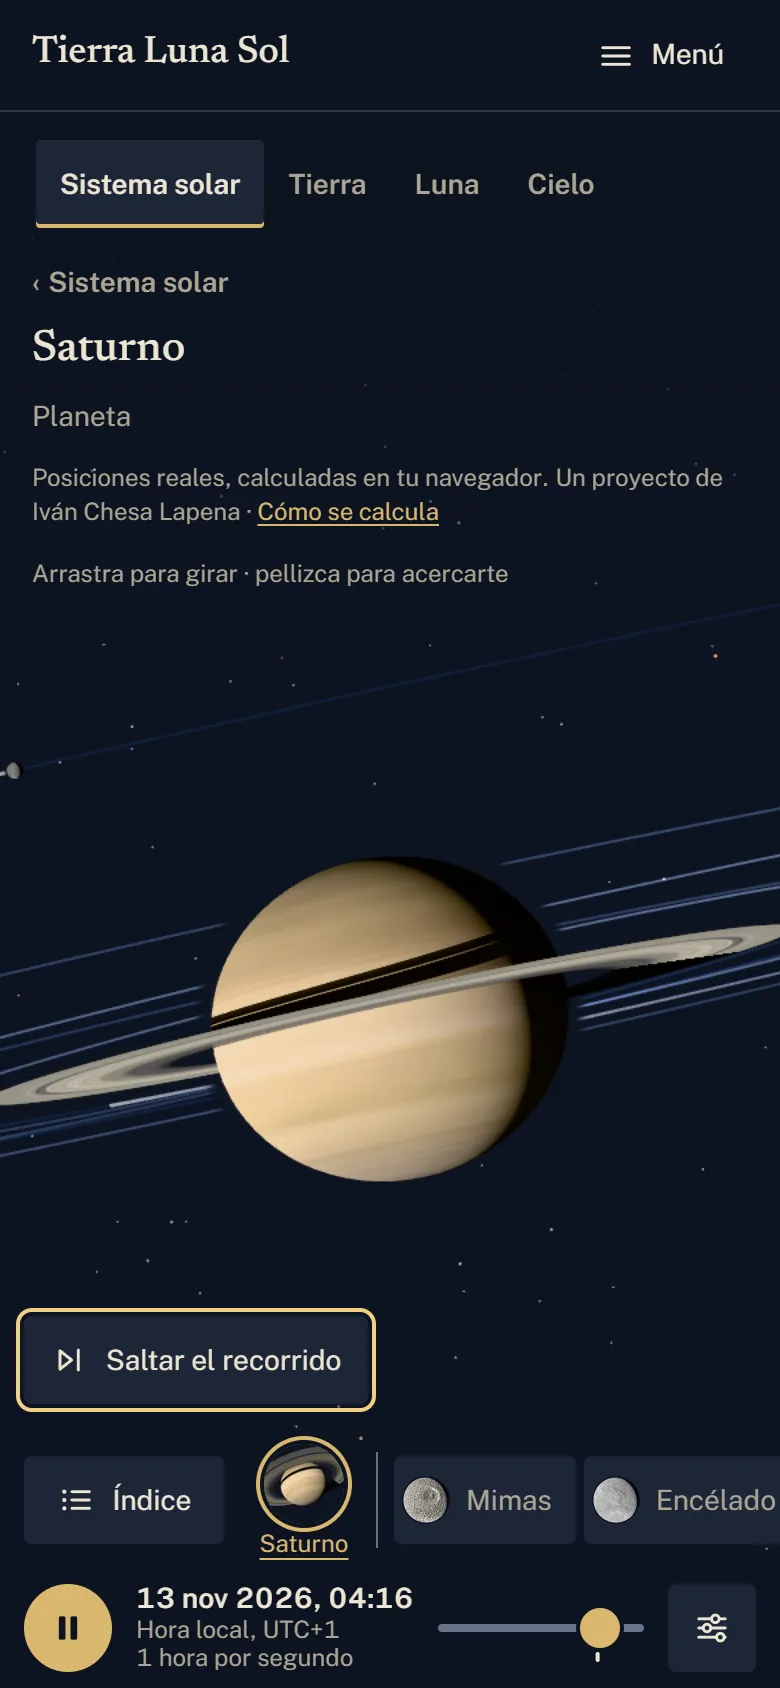
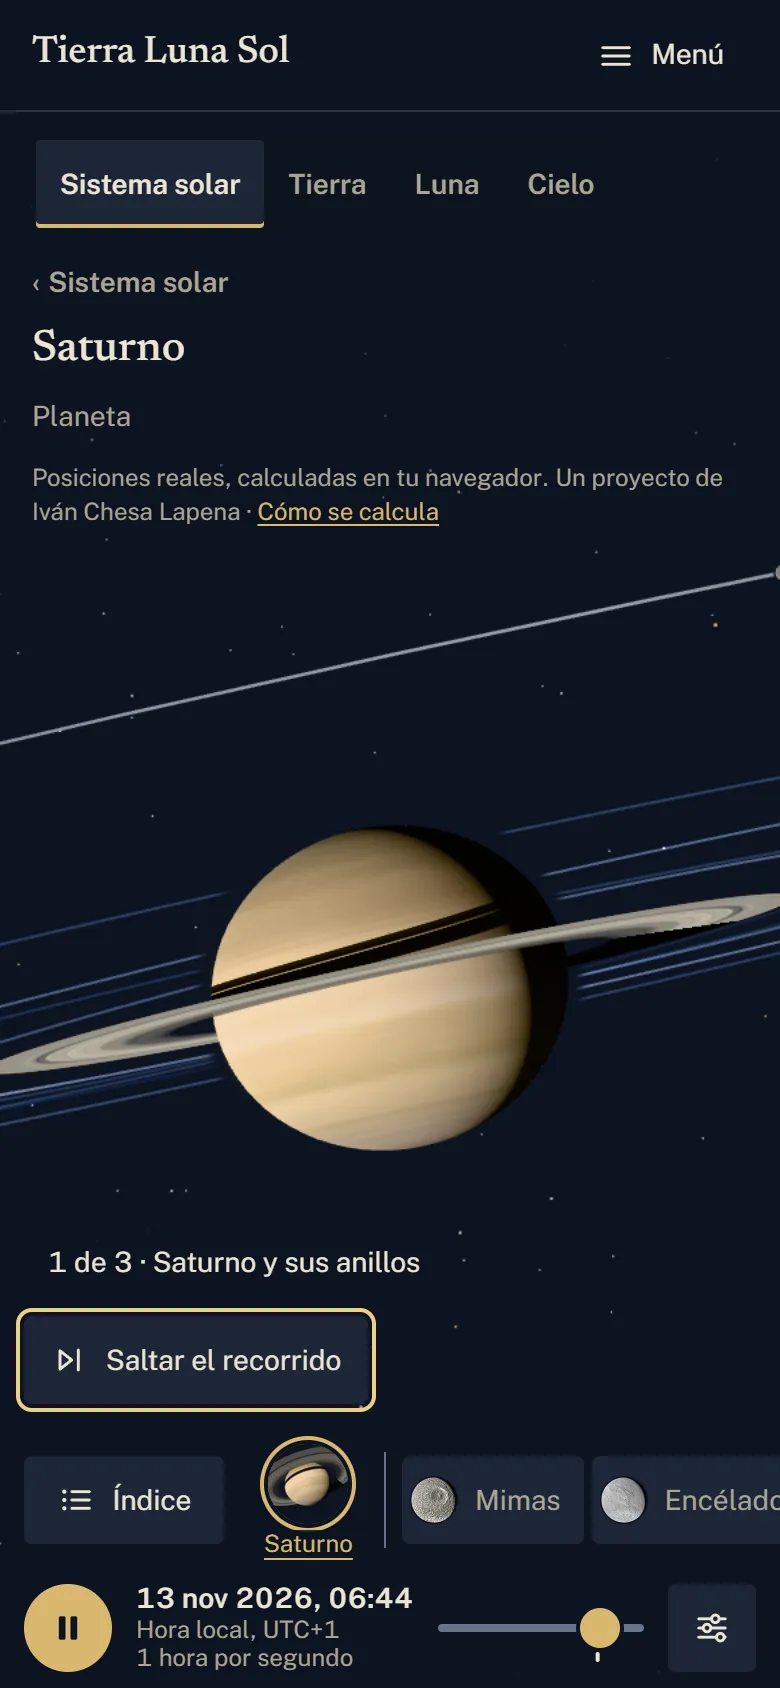
docs: la respuesta a la crítica de la 9c: el informe, DISENO al día y las capturas de después rehechas
- Informe: «Respuesta a la crítica» (los problemas 1 a 6 y los rápidos, con sus pruebas), §2, §6 y
  §6.2 con las medidas de este build (measure-ui, npm run check, 128 de 128 e2e), §7 (33 capturas de
  después), §10 (el año en el teléfono, propuesta para Iván; lo demás de la crítica, al backlog) y §12
  (para la 9b: las etiquetas de la escena, la precarga de texturas y los nombres de los lugares).
- DISENO: el recorrido y las pistas, los avisos sobre el 3D, lo plegado que se despliega con el foco,
  el año como mando, «Controles» en el encuadre y como hoja baja, la placa de los nombres y las migas.
- Capturas: las de después, rehechas sobre el build final; tres nuevas, con «Controles» abierto.

diff --git a/docs/DISENO.md b/docs/DISENO.md
@@ -116,13 +116,17 @@ La consola de un observatorio: grafito neutro, texto blanco roto y un único ace
 
 - **El 3D manda.** Lo que flota sobre el lienzo sin ser un control ni un panel opaco no captura el puntero: los gestos llegan al 3D por todo el lienzo (también sobre el título).
 - **Un control, un peso.** El borde (`--color-control`), solo en los campos y los desplegables; los botones, con su fondo (`--color-surface-raised`) y sin borde. Pulsado o abierto, el texto en latón con un subrayado de 2 px, como la pestaña de la vista actual. **Reproducir es lo único destacado** (el círculo de latón).
-- **Paneles sin contorno:** el fondo (`--color-surface`) y la sombra los separan del 3D. Las pestañas, sobre un fondo traslúcido; los planetas de las fichas, sin caja (la miniatura y el nombre, con una sombra del color del fondo).
+- **Paneles sin contorno:** el fondo (`--color-surface`) y la sombra los separan del 3D. Las pestañas, sobre un fondo traslúcido; los planetas de las fichas, sin caja: la miniatura, y el nombre sobre una placa casi opaca del color del fondo, que se lee también sobre un planeta brillante (≥ 4,5:1 en el peor caso, medido por `scripts/measure-ui.mjs`; crítica de la 9c).
 - **Un solo selector a la vista:** las fichas de cuerpos. El Índice es su versión en tabla y, abierto, las sustituye. El título dice el cuerpo elegido, con «‹ Sistema solar» para volver.
 - **Planetas y lunas, distintos a simple vista** (decisión de Iván del 07-11): los planetas, redondos y con el nombre debajo; las lunas, pastillas con su fondo, la miniatura y el nombre al lado (como un botón: pulsada, el nombre en latón con su subrayado).
   - **En el PC y la tableta (≥ 768 px), dos filas:** abajo, el Sol y los planetas; encima, las lunas del sistema elegido. En todas las vistas: en Tierra y Luna, los planetas y, encima, la Luna.
   - **En el móvil, una sola fila:** con un planeta con lunas elegido, el planeta, una raya y sus lunas (desplazable), y «‹ Sistema solar», en el título, vuelve a la de los planetas. En Tierra, Luna y el Cielo, sin fichas (en el Cielo, su selector es la tabla de «Esta noche», con «Mirar»).
 - **Lo que se usa poco, en «Controles»:** la fecha y la hora, el sentido, la cámara (en el móvil), la vista general, la vista limpia, la calidad, la escala, el recorrido y los atajos.
-- **La primera vez, y no más:** las pistas de uso y el recorrido de la portada (unos 30 s, con «Saltar el recorrido»).
+- **La primera vez, y no más:** el recorrido de la portada y, al acabarlo o saltarlo, las pistas de uso (crítica de la 9c).
+  - **El recorrido,** unos 29 s: Saturno, la Tierra y España (con sus lugares nombrados), la Luna (si no está casi nueva: con menos del 20 % iluminado, esa parada se salta, sin tocar la fecha) y la vista general en marcha. Cada parada, con su rótulo («1 de 4 · Saturno y sus anillos»). «Saltar el recorrido» lleva a la vista general en marcha, sin anillo de foco si se ha usado el ratón o un toque.
+  - **Las pistas,** 7 s junto a la fila: «Ahora tú: elige un cuerpo abajo · arrastra para girar · usa la rueda para acercarte» (o «pellizca», con el dedo). Solo se dan por vistas con una interacción de verdad (un clic, un toque, la rueda o una tecla que no sea moverse con el tabulador); si se acaban sin usarlas, vuelven otro día.
+- **Los avisos sobre el 3D** (el rótulo del recorrido, las pistas y «Saltar el recorrido»): en una placa junto a la fila, centrada en la zona libre del encuadre (`tls-callout`); no capturan el puntero.
+- **Lo plegado se despliega al recibir el foco** (la presentación y la autoría, con un cuerpo elegido en el móvil): el tabulador nunca se para en algo que no se ve.
 - **Medida de lectura:** `--measure` = 30em, unos 68 caracteres de texto corrido (antes 68ch, que con el «0» de Public Sans daban unos 89).
 - **Nada por debajo de 11 px** y zonas de 44 × 44 px en el explorador táctil (24 × 24 en todas las páginas).
 
@@ -130,7 +134,7 @@ La consola de un observatorio: grafito neutro, texto blanco roto y un único ace
 
 ### Navegación
 
-- **Páginas de lectura** (fichas, índices, eclipses…): la cabecera con el nombre (a la portada), Planetas, Lunas, Sol, Eclipses, Sobre el proyecto y «Explorar en 3D» (en latón). En el móvil, en «Menú», con los créditos y lo legal aparte y abajo.
+- **Páginas de lectura** (fichas, índices, eclipses…): la cabecera con el nombre (a la portada), Planetas, Lunas, Sol, Eclipses, Sobre el proyecto y «Explorar en 3D» (en latón). En el móvil, en «Menú», con los créditos y lo legal aparte y abajo. Debajo, las migas («Inicio › Planetas › Marte», «Inicio › Eclipses»).
 - **El explorador:** la cabecera compacta en todos los tamaños (el nombre y «Menú», con lo mismo dentro). Sus vistas, en las pestañas: Sistema solar, Tierra, Luna y Cielo.
 
 ### Visor · escritorio (≥ 1024 px)
@@ -150,12 +154,12 @@ Disposición inmersiva (D30, fase 3c; fase 9c): el lienzo a sangre bajo la cabec
 │                    canvas 3D a sangre                  └───────────────────┘   │
 │        (los gestos, en todo él; el encuadre se aparta de los paneles)    +     │ ← acercar y alejar, sin marco
 │                                                                          −     │
+│     Ahora tú: elige un cuerpo abajo · arrastra para girar · usa la rueda…      │ ← pistas, 7 s, la primera vez
 │                [◐ Mimas] [◐ Encélado] [◐ Tetis] [◐ Dione] … [◐ Jápeto]         │ ← encima, las lunas del sistema
 │ [≡ Índice]    (☉)  (·)  (·)  (·)  (·)  (♃)  (♄)  (·)  (·)                      │    elegido, en pastillas; abajo,
 │               Sol  Mer. Ven. Tie. Mar. Júp. Sat. Ura. Nep.                     │    los planetas, el nombre debajo
-│ (▶)  Fecha                   2026 ───────●──────────   Velocidad  [⚙ Controles]│ ← barra: reproducir, fecha,
-│      24 oct 2026, 02:00                    hoy         3 días/s ▾              │     año, velocidad y más
-│ Arrastra para girar · usa la rueda o pellizca para acercarte · elige un cuerpo │ ← pistas, solo la primera vez
+│ (▶)  Fecha               ‹ 2026 › ──────●──────────   Velocidad  [⚙ Controles] │ ← barra: reproducir, fecha,
+│      24 oct 2026, 02:00                    hoy         3 días/s ▾              │     el año (‹ ›), velocidad y más
 └────────────────────────────────────────────────────────────────────────────────┘
 ```
 Las cifras y las fechas del boceto son marcadores.
@@ -164,8 +168,9 @@ Las cifras y las fechas del boceto son marcadores.
 - **La franja de abajo** es solo el fondo de la barra de tiempo, con un fundido corto (0,5 rem) encima; los dos, como mucho el 10 % del lienzo; las fichas flotan sobre el 3D y cuentan en el encuadre.
 - **La barra no cambia de tamaño al reproducir:** las cifras usan `tabular-nums` y la fecha tiene el ancho de la más larga («30 sept 2026, 23:59»).
 - **Al entrar, el sistema se mueve** a la velocidad de su contexto (D33): reproducir y pausar es lo primero y más visible de la barra. La primera vez, el recorrido de la portada.
-- **En las vistas Tierra y Luna**, sin Índice: los planetas y, encima, la Luna; «‹ Sistema solar» en el título y su panel en la columna izquierda. **En el Cielo**, sin Índice: su tabla es la de «Esta noche»; su columna, de 22 rem, para que quepa el lugar más largo.
-- **«Controles»** se abre encima de la franja de abajo, a la derecha (con la ficha abierta, a su izquierda): por encima de la barra, las fichas y la fila de lunas, que no tapa.
+- **En las vistas Tierra y Luna**, sin Índice: los planetas y, encima, la Luna; «‹ Sistema solar» en el título y su panel en la columna izquierda, que aparta el encuadre a su derecha: la región de una vista guiada (España), en la zona libre. **En el Cielo**, sin Índice: su tabla es la de «Esta noche»; su columna, de 22 rem, para que quepa el lugar más largo.
+- **El año, un mando de la barra:** «‹ 2026 ›», en la línea del año, en el PC y la tableta (con el dedo, flechas de 44 px; en el teléfono, la línea apenas mide 100 px: el año va en la fecha y en «Controles»). Un toque, un año; mantenido medio segundo, por décadas; siempre dentro de 1900–2100. Con el teclado, Mayús + Re Pág y Av Pág en la línea del año, que lo dice en su descripción. Las flechas no son paradas del tabulador: la línea y el año son un solo mando (los topes de D47).
+- **«Controles»** se abre encima de la franja de abajo, a la derecha (con la ficha abierta, a su izquierda): por encima de la barra, las fichas y la fila de lunas, que no tapa. Abierto, cuenta en el encuadre: la cámara aparta el cuerpo a su izquierda.
 
 ### Visor · móvil y tableta (< 1024 px)
 
@@ -198,8 +203,8 @@ En el teléfono (< 768 px), con un planeta con lunas elegido (y la ficha cerrada
 └────────────────────────────────┘
 ```
 - **La ficha** es una hoja de dos alturas encima de la barra (que sigue a la vista: reproducir y pausar, siempre a mano): en reposo, como mucho el 45 % de la pantalla, con el nombre, el resumen, «Ficha completa» y «Ver los datos»; subida, los datos y sus fuentes.
-- **El índice y «Controles»** suben como hojas, con su título y su botón de cerrar. Lo que tapan sale del orden del foco.
-- **Tierra y Luna:** en el teléfono, sin fichas (en el título, «‹ Sistema solar»); su panel en una fila (las vistas, desplazables, y «Más» para el resto) y la barra plegada a reproducir, la fecha y «Controles». **El Cielo:** el lugar (su nombre corto, «Montsec (Lleida)») con «Usar mi ubicación» debajo (en la tableta, a su lado), la hora y una línea de resumen; «Esta noche», a demanda, con la tabla en dos líneas por fila si no cabe en su caja (también en la columna del escritorio); en el teléfono, sin fichas.
+- **El índice y «Controles»** suben como hojas, con su título y su botón de cerrar. Lo que tapan sale del orden del foco. «Controles» es una hoja baja, como mucho el 45 % de la pantalla (lo demás se desplaza dentro): el 3D se ve encima mientras se usa, y la cámara aparta el cuerpo por encima de ella. En un teléfono bajo, deja al menos unos 150 px de 3D bajo el título; en horizontal (o con el zoom al 200 %), es un panel a la derecha, de debajo de las pestañas a la barra, con el 3D a su izquierda.
+- **Tierra y Luna:** en el teléfono, sin fichas (en el título, «‹ Sistema solar»); su panel en una fila (las vistas, desplazables, y «Más» para el resto) y la barra plegada a reproducir, la fecha y «Controles». **El Cielo:** el lugar (su nombre corto, «Montsec (Lleida)») con «Usar mi ubicación» debajo (en la tableta, a su lado), la hora y una línea de resumen; «Esta noche», a demanda (con su marcador de abierto o cerrado), con la tabla en dos líneas por fila si no cabe en su caja (también en la columna del escritorio); en el teléfono, sin fichas.
 - **En los teléfonos bajos** (en horizontal o con el zoom al 200 %), la página se desplaza: al llegar se ven el lienzo y, justo debajo, la barra con su pausa.
 
 ### Ficha completa (`/planetas/marte`) · sin 3D
